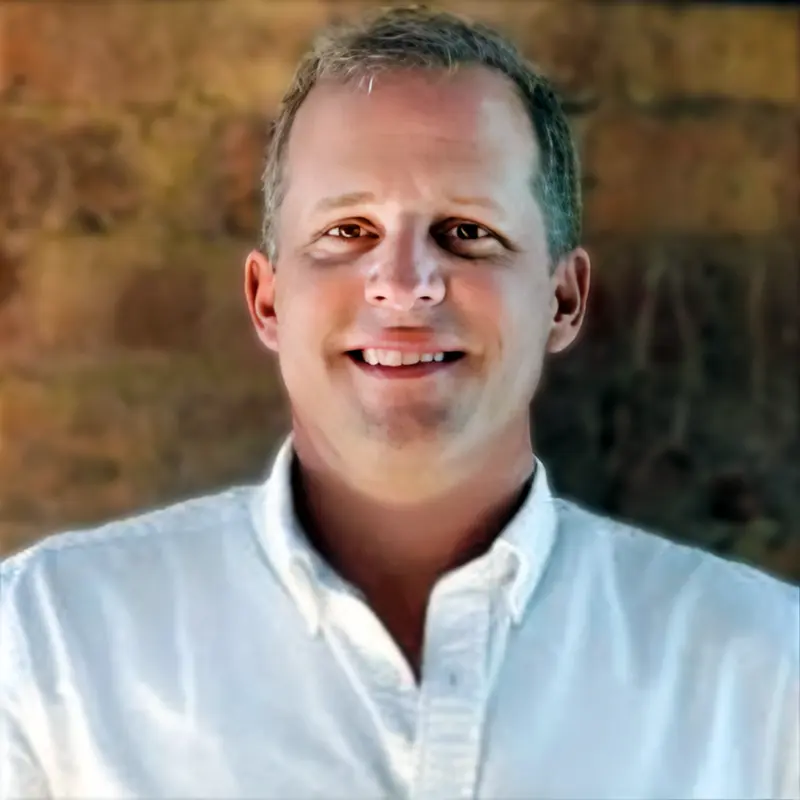
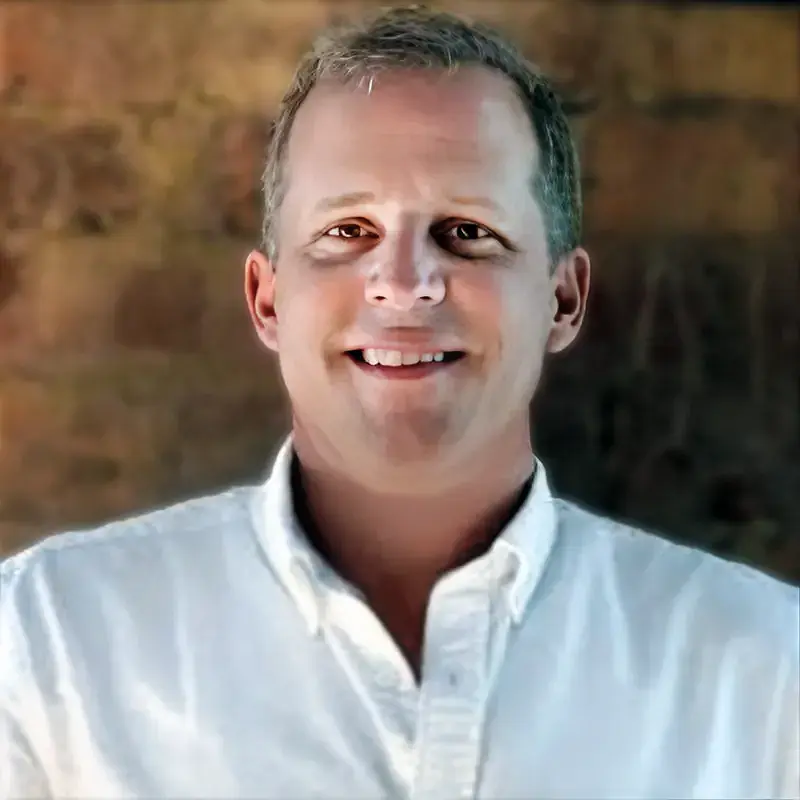
Update testimonials section with new quotes and images; add grayscale filter for improved aesthetics

Changed region(s): [[0.4062, 0.5, 0.5938, 0.6562], [0.4688, 0.4062, 0.5312, 0.4375]]

diff --git a/html/static/css/style.css b/html/static/css/style.css
@@ -1628,6 +1628,18 @@
       outline-color: color-mix(in oklab, var(--color-black) 10%, transparent);
     }
   }
+  .grayscale {
+    --tw-grayscale: grayscale(100%);
+    filter: var(--tw-blur,) var(--tw-brightness,) var(--tw-contrast,) var(--tw-grayscale,) var(--tw-hue-rotate,) var(--tw-invert,) var(--tw-saturate,) var(--tw-sepia,) var(--tw-drop-shadow,);
+  }
+  .grayscale-20 {
+    --tw-grayscale: grayscale(20%);
+    filter: var(--tw-blur,) var(--tw-brightness,) var(--tw-contrast,) var(--tw-grayscale,) var(--tw-hue-rotate,) var(--tw-invert,) var(--tw-saturate,) var(--tw-sepia,) var(--tw-drop-shadow,);
+  }
+  .grayscale-50 {
+    --tw-grayscale: grayscale(50%);
+    filter: var(--tw-blur,) var(--tw-brightness,) var(--tw-contrast,) var(--tw-grayscale,) var(--tw-hue-rotate,) var(--tw-invert,) var(--tw-saturate,) var(--tw-sepia,) var(--tw-drop-shadow,);
+  }
   .invert {
     --tw-invert: invert(100%);
     filter: var(--tw-blur,) var(--tw-brightness,) var(--tw-contrast,) var(--tw-grayscale,) var(--tw-hue-rotate,) var(--tw-invert,) var(--tw-saturate,) var(--tw-sepia,) var(--tw-drop-shadow,);

diff --git a/app/views/home/case-studies.php b/app/views/home/case-studies.php
@@ -13,20 +13,20 @@
           </svg>
           <blockquote class="text-xl/8 font-semibold text-gray-900 sm:text-2xl/9">
             <p>
-                The CTO-as-a-service model Ran and his team have built is the future of product development. They delivered two complex projects in parallel, within an impossible timeline and at a fraction of the traditional cost.
-                They are now an integral part of our ongoing success.
+                The CTO-as-a-service model is the future of product development.
+                They delivered two complex projects in parallel, within an impossible timeline, and
+                they are now an integral part of our ongoing success.
             </p>
-            <!-- <p>Automaze helped us ship faster than ever. Their team integrated seamlessly and delivered quality without compromise.</p> -->
           </blockquote>
         </div>
         <div class="col-end-1 lg:row-span-4 -ml-2">
           <div class="squircle size-20 lg:size-64">
-            <img src="<?php tiny::staticURL('img/client-simon.webp'); ?>" alt="" />
+            <img src="<?php tiny::staticURL('img/client-simon.webp'); ?>" alt="" class="grayscale-20" />
           </div>
         </div>
         <figcaption class="text-base lg:col-start-1 lg:row-start-3">
           <div class="font-semibold text-gray-900">Simon Knapp</div>
-          <div class="mt-1 text-gray-500">Founder, Pixmoto</div>
+          <div class="mt-1 text-gray-500">Founder @ Pixmoto</div>
         </figcaption>
       </figure>
 
@@ -38,17 +38,17 @@
             <use x="86" href="#quote-a" />
           </svg>
           <blockquote class="text-xl/8 font-semibold text-gray-900 sm:text-2xl/9">
-            <p>The MVP sprint was exactly what we needed—clear scope, smooth delivery, and a product we could put in customers’ hands.</p>
+            <p>Working with Automaze is a great experience! Super knowledgeable, very responsive, and a really nice team to work with.</p>
           </blockquote>
         </div>
         <div class="col-end-1 lg:row-span-4 -ml-2">
           <div class="squircle size-20 lg:size-64">
-            <img src="https://images.unsplash.com/photo-1494790108377-be9c29b29330?w=576&h=576&q=80&fit=facearea&auto=format" alt="" />
+            <img src="<?php tiny::staticURL('img/client-jeff.webp'); ?>" alt="" class="grayscale-20" />
           </div>
         </div>
         <figcaption class="text-base lg:col-start-1 lg:row-start-3">
-          <div class="font-semibold text-gray-900">Sean Peterson</div>
-          <div class="mt-1 text-gray-500">CEO, CorssGen AI</div>
+          <div class="font-semibold text-gray-900">Jeff Shenk</div>
+          <div class="mt-1 text-gray-500">COO @ PLG</div>
         </figcaption>
       </figure>
 
@@ -60,17 +60,17 @@
             <use x="86" href="#quote-a" />
           </svg>
           <blockquote class="text-xl/8 font-semibold text-gray-900 sm:text-2xl/9">
-            <p>Their CTO-as-a-Service gave us clarity and confidence. We cut waste, focused the roadmap, and accelerated delivery.</p>
+            <p>If you're looking for a team of people who aren't just knowledgeable but also genuinely care, you found them.</p>
           </blockquote>
         </div>
         <div class="col-end-1 lg:row-span-4 -ml-2">
           <div class="squircle size-20 lg:size-64">
-            <img src="https://images.unsplash.com/photo-1494790108377-be9c29b29330?w=576&h=576&q=80&fit=facearea&auto=format" alt="" />
+            <img src="<?php tiny::staticURL('img/client-joshua.webp'); ?>" alt="" class="grayscale-20" />
           </div>
         </div>
         <figcaption class="text-base lg:col-start-1 lg:row-start-3">
-          <div class="font-semibold text-gray-900">Adib Bemieh</div>
-          <div class="mt-1 text-gray-500">Founder, Bamboo Orchard</div>
+          <div class="font-semibold text-gray-900">Joshua Arabian</div>
+          <div class="mt-1 text-gray-500">CEO @ Home Medix</div>
         </figcaption>
       </figure>
 
@@ -82,19 +82,73 @@
             <use x="86" href="#quote-a" />
           </svg>
           <blockquote class="text-xl/8 font-semibold text-gray-900 sm:text-2xl/9">
-            <p>From design to DevOps, Automaze handled everything with care and speed. We scaled reliably and saved on cloud costs.</p>
+            <p>
+              I love working with Automaze. Their dedication to problem-solving and going beyond my expectations is the reason we keep growing our business with them.
+            </p>
           </blockquote>
         </div>
         <div class="col-end-1 lg:row-span-4 -ml-2">
           <div class="squircle size-20 lg:size-64">
-            <img src="https://images.unsplash.com/photo-1494790108377-be9c29b29330?w=576&h=576&q=80&fit=facearea&auto=format" alt="" />
+            <img src="<?php tiny::staticURL('img/client-adib.webp'); ?>" alt="" class="grayscale-20" />
+          </div>
+        </div>
+        <figcaption class="text-base lg:col-start-1 lg:row-start-3">
+          <div class="font-semibold text-gray-900">Adib Bemyeh</div>
+          <div class="mt-1 text-gray-500">Founder @ Bamboo Orchard</div>
+        </figcaption>
+      </figure>
+
+      <!-- Slide 5 -->
+      <figure class="testimonial-slide m-1 p-2 grid grid-cols-1 items-center gap-x-6 gap-y-8 lg:gap-x-10">
+        <div class="relative col-span-2 lg:col-start-1 lg:row-start-2">
+          <svg viewBox="0 0 162 128" fill="none" aria-hidden="true" class="absolute -top-12 left-0 -z-10 h-32 stroke-gray-900/10">
+            <path d="M65.5697 118.507L65.8918 118.89C68.9503 116.314 71.367 113.253 73.1386 109.71C74.9162 106.155 75.8027 102.28 75.8027 98.0919C75.8027 94.237 75.16 90.6155 73.8708 87.2314C72.5851 83.8565 70.8137 80.9533 68.553 78.5292C66.4529 76.1079 63.9476 74.2482 61.0407 72.9536C58.2795 71.4949 55.276 70.767 52.0386 70.767C48.9935 70.767 46.4686 71.1668 44.4872 71.9924L44.4799 71.9955L44.4726 71.9988C42.7101 72.7999 41.1035 73.6831 39.6544 74.6492C38.2407 75.5916 36.8279 76.455 35.4159 77.2394L35.4047 77.2457L35.3938 77.2525C34.2318 77.9787 32.6713 78.3634 30.6736 78.3634C29.0405 78.3634 27.5131 77.2868 26.1274 74.8257C24.7483 72.2185 24.0519 69.2166 24.0519 65.8071C24.0519 60.0311 25.3782 54.4081 28.0373 48.9335C30.703 43.4454 34.3114 38.345 38.8667 33.6325C43.5812 28.761 49.0045 24.5159 55.1389 20.8979C60.1667 18.0071 65.4966 15.6179 71.1291 13.7305C73.8626 12.8145 75.8027 10.2968 75.8027 7.38572C75.8027 3.6497 72.6341 0.62247 68.8814 1.1527C61.1635 2.2432 53.7398 4.41426 46.6119 7.66522C37.5369 11.6459 29.5729 17.0612 22.7236 23.9105C16.0322 30.6019 10.618 38.4859 6.47981 47.558L6.47976 47.558L6.47682 47.5647C2.4901 56.6544 0.5 66.6148 0.5 77.4391C0.5 84.2996 1.61702 90.7679 3.85425 96.8404L3.8558 96.8445C6.08991 102.749 9.12394 108.02 12.959 112.654L12.959 112.654L12.9646 112.661C16.8027 117.138 21.2829 120.739 26.4034 123.459L26.4033 123.459L26.4144 123.465C31.5505 126.033 37.0873 127.316 43.0178 127.316C47.5035 127.316 51.6783 126.595 55.5376 125.148L55.5376 125.148L55.5477 125.144C59.5516 123.542 63.0052 121.456 65.9019 118.881L65.5697 118.507Z" />
+            <use x="86" href="#quote-a" />
+          </svg>
+          <blockquote class="text-xl/8 font-semibold text-gray-900 sm:text-2xl/9">
+            <p>
+            The team's ability to “read between the lines” is extremely helpful.
+            I always look forward to our checkins, where I know the team will overdeliver on improvements and solutions that we may not have come up with otherwise.
+            </p>
+          </blockquote>
+        </div>
+        <div class="col-end-1 lg:row-span-4 -ml-2">
+          <div class="squircle size-20 lg:size-64">
+            <img src="<?php tiny::staticURL('img/client-brian.webp'); ?>" alt="" class="grayscale-20" />
+          </div>
+        </div>
+        <figcaption class="text-base lg:col-start-1 lg:row-start-3">
+          <div class="font-semibold text-gray-900">Brian Atwood</div>
+          <div class="mt-1 text-gray-500">Founder @ Sindarin</div>
+        </figcaption>
+      </figure>
+
+      <!-- Slide 6 -->
+      <figure class="testimonial-slide m-1 p-2 grid grid-cols-1 items-center gap-x-6 gap-y-8 lg:gap-x-10">
+        <div class="relative col-span-2 lg:col-start-1 lg:row-start-2">
+          <svg viewBox="0 0 162 128" fill="none" aria-hidden="true" class="absolute -top-12 left-0 -z-10 h-32 stroke-gray-900/10">
+            <path d="M65.5697 118.507L65.8918 118.89C68.9503 116.314 71.367 113.253 73.1386 109.71C74.9162 106.155 75.8027 102.28 75.8027 98.0919C75.8027 94.237 75.16 90.6155 73.8708 87.2314C72.5851 83.8565 70.8137 80.9533 68.553 78.5292C66.4529 76.1079 63.9476 74.2482 61.0407 72.9536C58.2795 71.4949 55.276 70.767 52.0386 70.767C48.9935 70.767 46.4686 71.1668 44.4872 71.9924L44.4799 71.9955L44.4726 71.9988C42.7101 72.7999 41.1035 73.6831 39.6544 74.6492C38.2407 75.5916 36.8279 76.455 35.4159 77.2394L35.4047 77.2457L35.3938 77.2525C34.2318 77.9787 32.6713 78.3634 30.6736 78.3634C29.0405 78.3634 27.5131 77.2868 26.1274 74.8257C24.7483 72.2185 24.0519 69.2166 24.0519 65.8071C24.0519 60.0311 25.3782 54.4081 28.0373 48.9335C30.703 43.4454 34.3114 38.345 38.8667 33.6325C43.5812 28.761 49.0045 24.5159 55.1389 20.8979C60.1667 18.0071 65.4966 15.6179 71.1291 13.7305C73.8626 12.8145 75.8027 10.2968 75.8027 7.38572C75.8027 3.6497 72.6341 0.62247 68.8814 1.1527C61.1635 2.2432 53.7398 4.41426 46.6119 7.66522C37.5369 11.6459 29.5729 17.0612 22.7236 23.9105C16.0322 30.6019 10.618 38.4859 6.47981 47.558L6.47976 47.558L6.47682 47.5647C2.4901 56.6544 0.5 66.6148 0.5 77.4391C0.5 84.2996 1.61702 90.7679 3.85425 96.8404L3.8558 96.8445C6.08991 102.749 9.12394 108.02 12.959 112.654L12.959 112.654L12.9646 112.661C16.8027 117.138 21.2829 120.739 26.4034 123.459L26.4033 123.459L26.4144 123.465C31.5505 126.033 37.0873 127.316 43.0178 127.316C47.5035 127.316 51.6783 126.595 55.5376 125.148L55.5376 125.148L55.5477 125.144C59.5516 123.542 63.0052 121.456 65.9019 118.881L65.5697 118.507Z" />
+            <use x="86" href="#quote-a" />
+          </svg>
+          <blockquote class="text-xl/8 font-semibold text-gray-900 sm:text-2xl/9">
+            <p>
+            The team's workmanship is highly applaudable. We do not have any second doubts about choosing to work with Automaze, and would recommend them to anyone without a second thought.
+            </p>
+          </blockquote>
+        </div>
+        <div class="col-end-1 lg:row-span-4 -ml-2">
+          <div class="squircle size-20 lg:size-64">
+            <img src="<?php tiny::staticURL('img/client-phillip.webp'); ?>" alt="" class="grayscale-20" />
           </div>
         </div>
         <figcaption class="text-base lg:col-start-1 lg:row-start-3">
           <div class="font-semibold text-gray-900">Phillip Qeag</div>
-          <div class="mt-1 text-gray-500">Co-founder, IONKOL</div>
+          <div class="mt-1 text-gray-500">Co-founder @ IONKOL</div>
         </figcaption>
       </figure>
+
+
+
 
       <!-- Dots -->
       <div id="testimonial-dots" class="testimonial-dots" role="tablist" aria-label="Testimonials navigation"></div>
